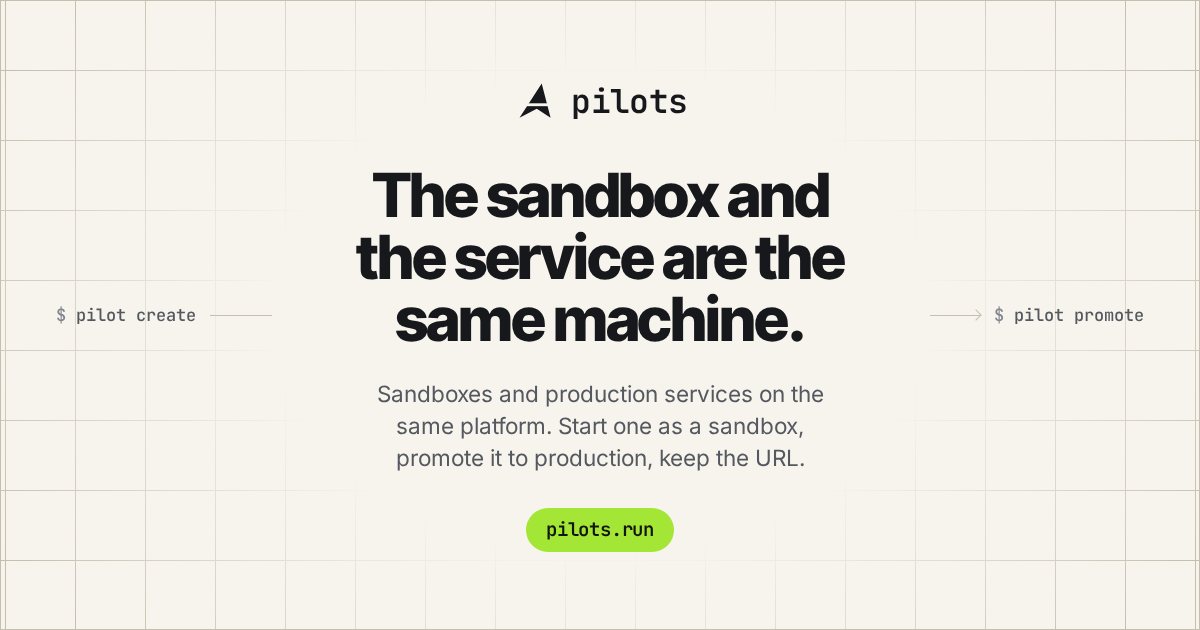
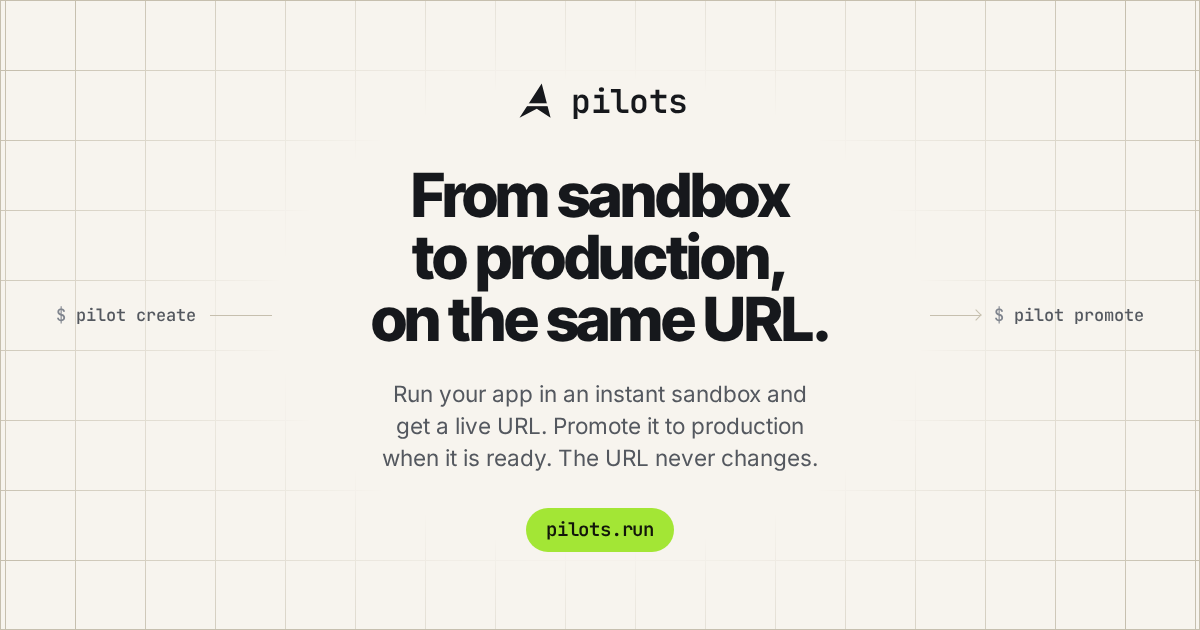
Lead the card and the footer with what happens to the reader
The card's headline was the site's thesis, that the sandbox and the service are the same machine, which has to be decoded before it means anything. A link preview gets a couple of seconds, so the card now says the outcome in the order it happens: from sandbox to production on the same URL, then run it, get a live URL, promote it, and the URL never changes. The footer blurb is the same supporting line, so a shared link and the page it opens agree. The home page keeps the thesis as its heading, and the test no longer holds the card's headline to it.

Changed region(s): [[0.2775, 0.2714, 0.7092, 0.5429], [0.3083, 0.6032, 0.6783, 0.754]]

diff --git a/apps/web/test/site/og.test.ts b/apps/web/test/site/og.test.ts
@@ -1,7 +1,7 @@
 // The social card is a picture of the site, made by a script nobody runs on a
 // deploy, so nothing else notices when it falls behind. It did once: it carried
 // a logo the site had retired and a tagline the footer had dropped. This holds
-// the card's words to the footer and the home page, its mark to the header's,
+// the card's blurb to the footer, its mark to the header's,
 // and the file to what the platforms accept.
 import { test } from 'node:test';
 import assert from 'node:assert/strict';
@@ -23,9 +23,11 @@ const constant = (name: string) => {
 const HEADLINE = constant('HEADLINE');
 const BLURB = constant('BLURB');
 
-test('the card says what the footer and the home page say', () => {
+test('the card says what the footer says', () => {
   assert.ok(flat(read('site', 'lib', 'ui', 'site-footer.ts')).includes(BLURB), 'the blurb is the footer blurb, word for word');
-  assert.ok(flat(read('app', '(site)', 'page.ts')).includes(HEADLINE), 'the headline is the home page heading');
+  // The headline is the card's own, so there is nothing on the site to hold it
+  // to. It only has to be short enough to sit inside the centre square.
+  assert.ok(HEADLINE.length > 0 && HEADLINE.length <= 52, `the headline is ${HEADLINE.length} characters`);
 });
 
 test('the card draws the mark the header does', () => {

diff --git a/apps/web/site/lib/ui/site-footer.ts b/apps/web/site/lib/ui/site-footer.ts
@@ -25,8 +25,8 @@ export function siteFooter() {
               <span>pilots</span>
             </span>
             <p class="text-sm text-ink-muted m-0 max-w-[34ch]">
-              Sandboxes and production services on the same platform. Start one as a sandbox,
-              promote it to production, keep the URL.
+              Run your app in an instant sandbox and get a live URL. Promote it to production
+              when it is ready. The URL never changes.
             </p>
           </div>
 
